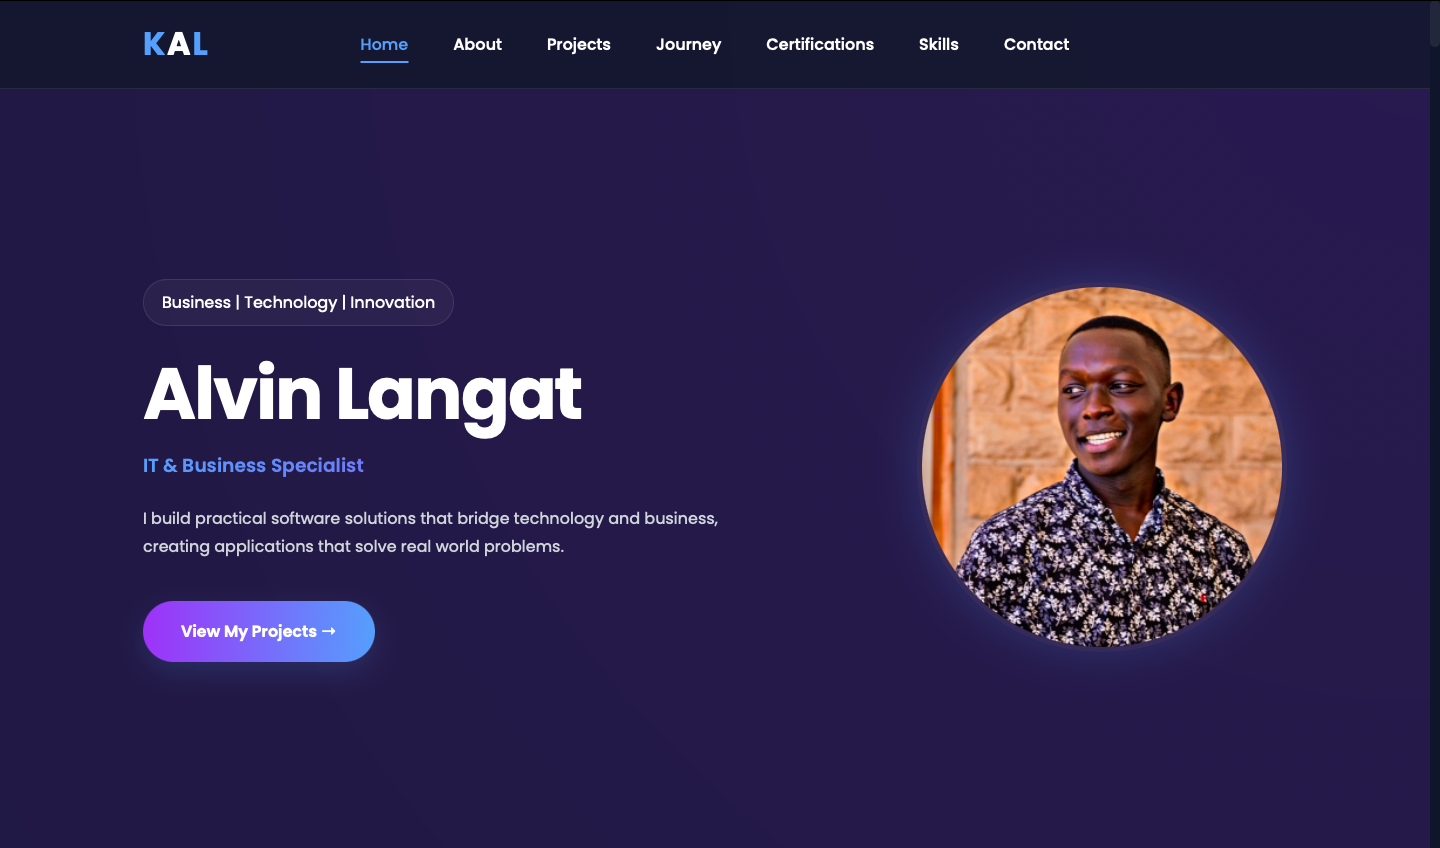
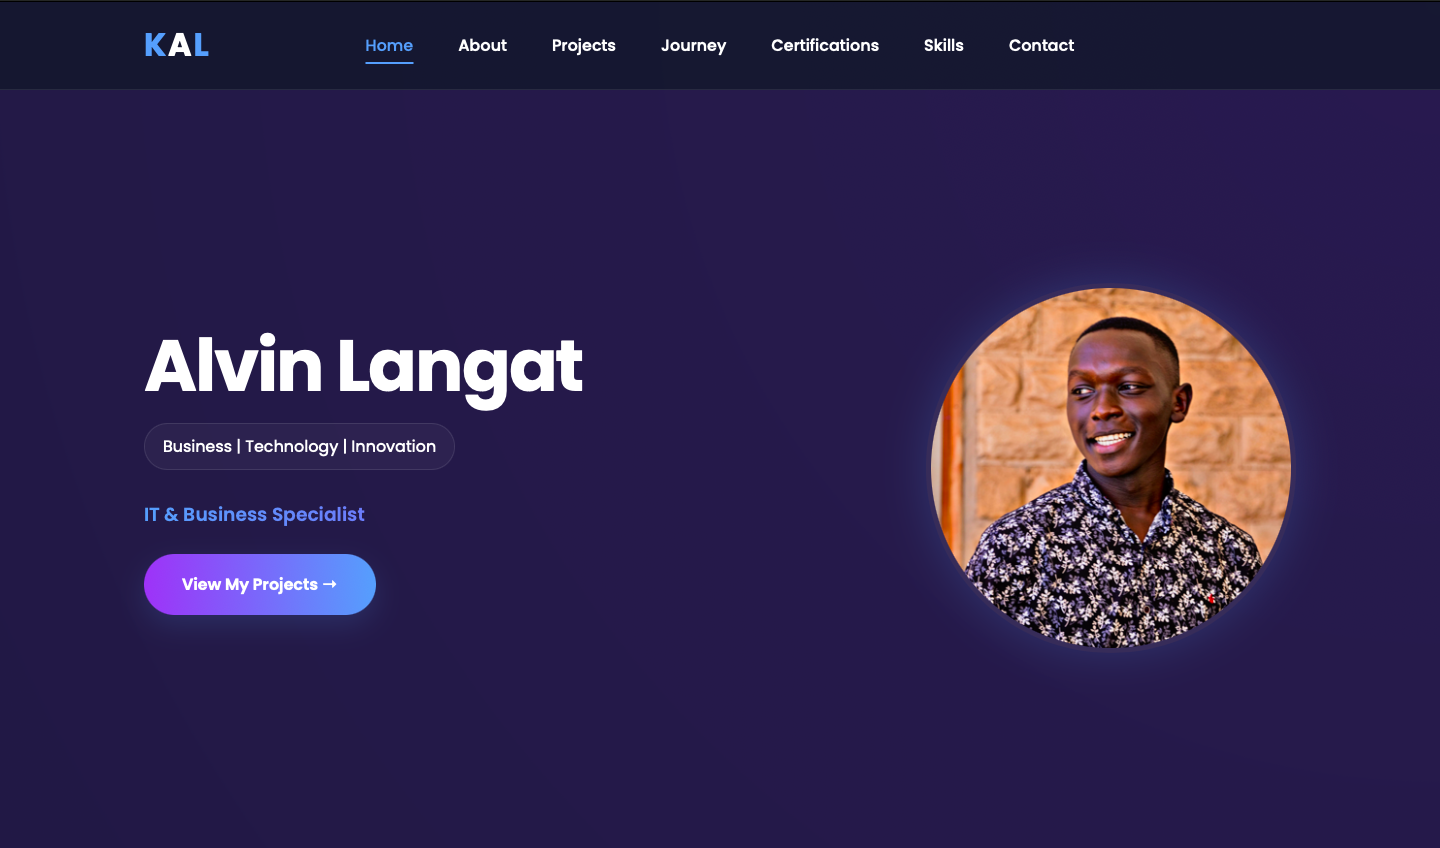
Update about me

diff --git a/index.html b/index.html
@@ -72,23 +72,20 @@
 
         <div class="hero-text">
 
-            <div class="hero-badge">
-                Business | Technology | Innovation
-            </div>
+            
 
             <h1>
                 Alvin Langat
             </h1>
 
+            <div class="hero-badge">
+                Business | Technology | Innovation
+            </div>
+
             <h3>
                 IT & Business Specialist
             </h3>
 
-            <p>
-                I build practical software solutions that bridge technology
-                and business, creating applications that solve real world
-                problems.
-            </p>
 
             <a href="#projects" class="btn">
                 View My Projects →
@@ -118,7 +115,7 @@
         <div class="about-text">
 
             <p>
-                I’m a business technology professional who connects technology with real business needs. I build practical applications, business systems, AI/ML solutions, and digital tools designed to solve real problems and deliver meaningful value. My approach combines technical expertise with an understanding of business requirements, with a focus on creating solutions that are simple, reliable, and genuinely useful.
+                I’m interested in turning ideas into practical solutions by bringing business and technology together. My experience spans software development, AI training, data management, client support, and digital services. I approach problems with curiosity, enjoy understanding how systems work, and focus on building solutions that serve a clear purpose.
             </p>
 
             <!--

diff --git a/README.md b/README.md
@@ -2,13 +2,15 @@
 
 ---
 
+
 # 🌐 Alvin K. Langat | Portfolio Website
 
 A modern, responsive portfolio website showcasing my projects, professional experience, certifications, and technical skills.
 
-Built with performance, accessibility, and clean design in mind, this portfolio serves as my professional online presence and will continue evolving as I grow my experience and projects.
+This portfolio serves as my professional online presence and will continue evolving as I grow my experience and projects.
 
 ---
+
 
 ## ✨ Features
 
@@ -24,6 +26,7 @@ Built with performance, accessibility, and clean design in mind, this portfolio 
 
 ---
 
+
 ## 🛠 Technologies
 
 - HTML5
@@ -33,6 +36,7 @@ Built with performance, accessibility, and clean design in mind, this portfolio 
 - Git & GitHub
 
 ---
+
 
 ## 📂 Project Structure
 
@@ -56,18 +60,8 @@ Portfolio/
 
 ---
 
-## 💻 Run Locally
 
-```bash
-git clone https://github.com/heisallaki/Portfolio.git
-cd Portfolio
-```
-
-Open `index.html` in your browser, or run the project using VS Code Live Server.
-
----
-
-## 🤝 Connect
+## 🫱🏾🫲🏻 Connect
 
 **LinkedIn**  
 https://www.linkedin.com/in/alvin-langat
